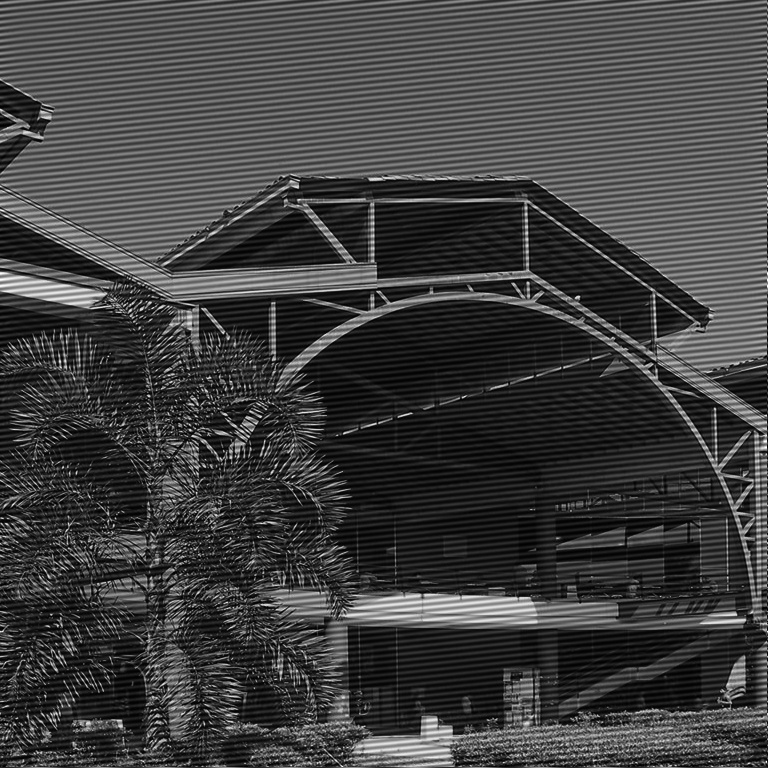
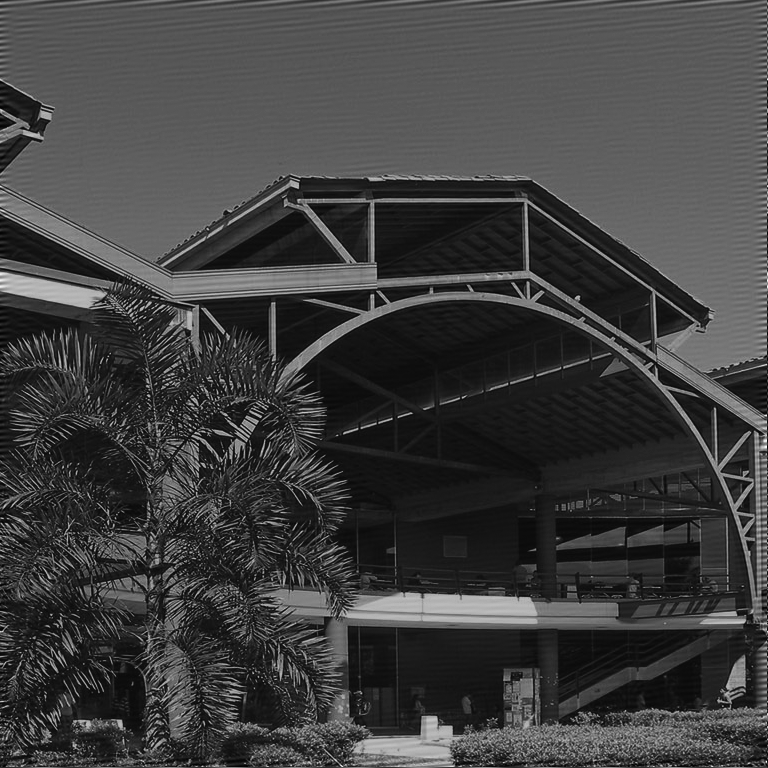
Separación de las transmitancias (sin la suma)
Al sumar, no quedaban completamente bloqueadas las frecuencias que se desean eliminar

Changed region(s): [[0.0, 0.0, 1.0, 1.0], [0.0938, 0.875, 0.125, 0.9062], [0.0625, 0.9062, 0.0938, 0.9375]]

diff --git a/IO_Entrega1_Punto4b.py b/IO_Entrega1_Punto4b.py
@@ -26,7 +26,7 @@ def transmittanceFP(UF1, w_length, f_length, deltau, deltav, M, N, u, v):
 	x=np.arange(-M,M)
 	y=np.arange(-N,N)
 	x,y=np.meshgrid(x,y)
-	lim=200**2   #radius of 200um
+	lim=250**2   #radius of 200um
 	a=13*deltau  #position of object
 	b=122*deltav
 	Obj1=(deltau*x+a)**2 + (deltav*y+b)**2
@@ -37,11 +37,10 @@ def transmittanceFP(UF1, w_length, f_length, deltau, deltav, M, N, u, v):
 	Obj2[np.where(Obj2<=lim)]=0
 	Obj2[np.where(Obj2>lim)]=1
 
-	Obj=Obj1+Obj2
 
-	t2=Obj*UF1          
+	t2=Obj1*Obj2*UF1          
 
-	return t2,Obj
+	return t2,Obj1,Obj2
 
 
 def secondlens(t2, deltau, deltav, w_length, f_length):
@@ -97,7 +96,7 @@ eta=N*deltaeta
 #Image formation
 t1= cv2.imread("b.png",0)
 UF1=firstlens(t1, deltaxprim, deltayprim, w_length, f_length)
-t2,Obj=transmittanceFP(UF1, w_length, f_length, deltau, deltav, M, N, u, v)
+t2,Obj1,Obj2=transmittanceFP(UF1, w_length, f_length, deltau, deltav, M, N, u, v)
 UF2=secondlens(t2, deltau, deltav, w_length, f_length)
 
 #Fourier transform of the image
@@ -109,10 +108,13 @@ I2=(np.abs(UF2)**2)                            #Intensity
 angle2=np.angle(UF2)                           #Phase
 
 #Transmittance t2
-I3=(np.abs(Obj)**2)                      #Intensity
+I3=(np.abs(Obj1)**2)                      #Intensity
+
+#Transmittance t2
+I4=(np.abs(Obj2)**2)                      #Intensity
 
 #Fourier transform of the image multiplied by the transmittance t2 
-I4=I3*I1                                       #Intensity
+I5=I3*I4*I1                                       #Intensity
 
 
 #Plot
@@ -140,10 +142,18 @@ plt.ylabel('[um]')
 plt.xlabel('[um]')
 plt.imsave("filterP4b.png",I3, cmap='gray')    
 
-#Fourier transform of the image multiplied by the transmittance t2
-plt.figure(4) 
+#Transmittance t2
+plt.figure(3) 
 plt.imshow(I4, extent=[-u,u,-v,v])
 plt.title('Transmittance in Fourier Plane')
 plt.ylabel('[um]')
 plt.xlabel('[um]')
-plt.imsave("FTfilteredP4b.png",I4, cmap='gray')   
+plt.imsave("filter2P4b.png",I4, cmap='gray')   
+
+#Fourier transform of the image multiplied by the transmittance t2
+plt.figure(4) 
+plt.imshow(I5, extent=[-u,u,-v,v])
+plt.title('Transmittance in Fourier Plane')
+plt.ylabel('[um]')
+plt.xlabel('[um]')
+plt.imsave("FTfilteredP4b.png",I5, cmap='gray')   
